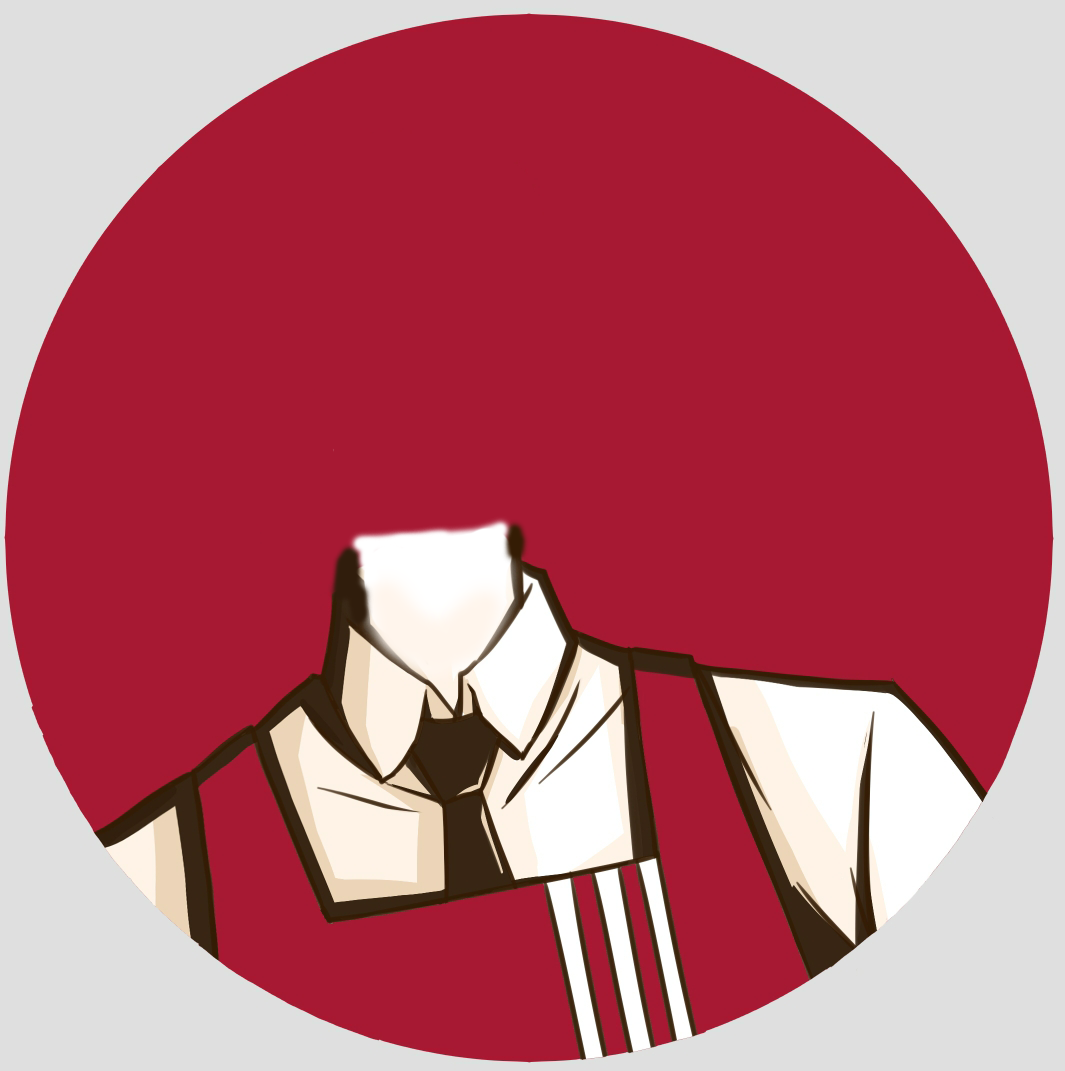
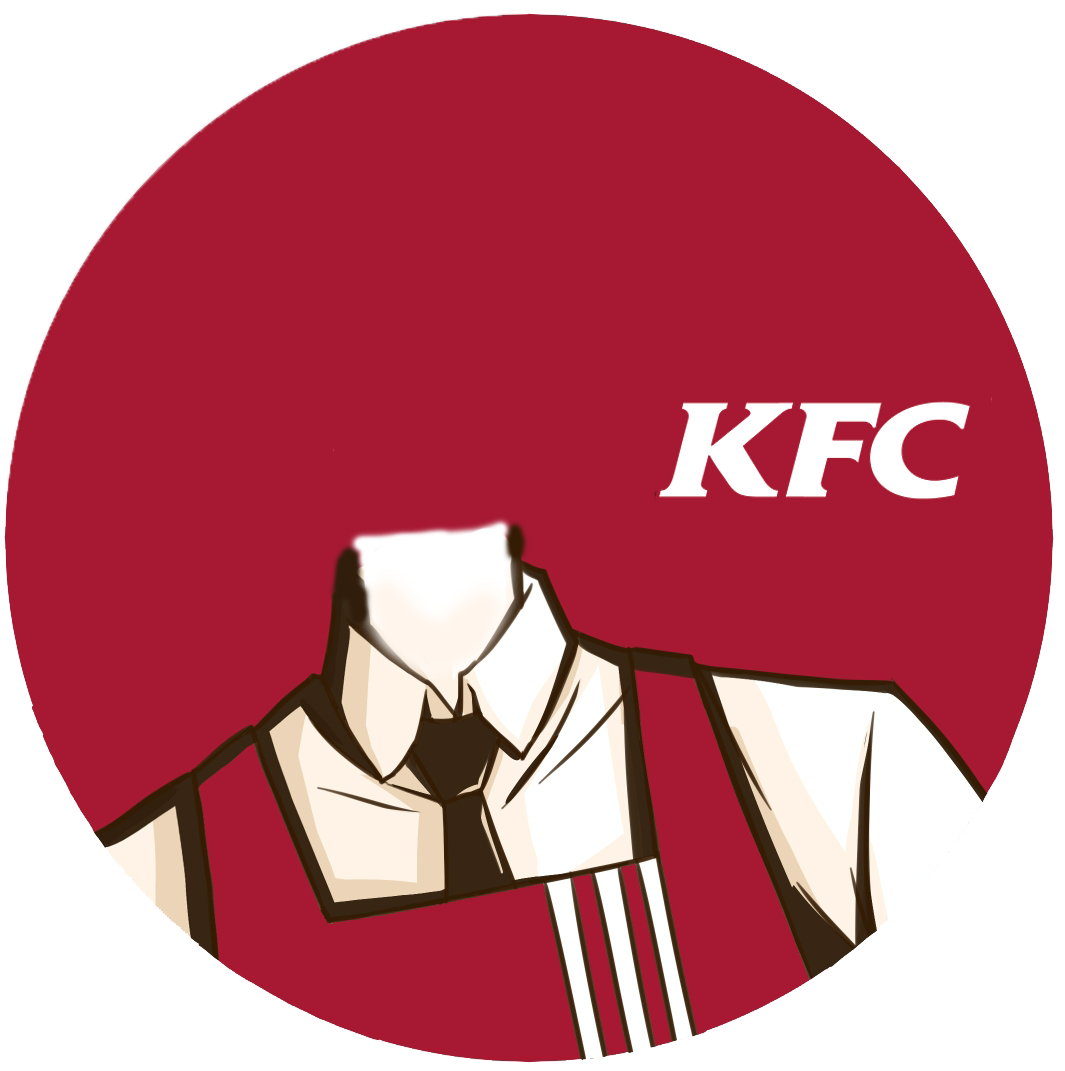
新增表情挣扎 优化KFC头像

Changed region(s): [[0.0, 0.0, 1.0, 1.0], [0.6197, 0.3697, 0.9296, 0.4622]]

diff --git a/emoji/anyliew_struggling/__init__.py b/emoji/anyliew_struggling/__init__.py
@@ -5,32 +5,32 @@ from pil_utils import BuildImage
 
 from meme_generator import MemeArgsModel, add_meme
 from meme_generator.exception import TextOverLength
-from meme_generator.utils import make_png_or_gif
+from meme_generator.utils import make_jpg_or_gif
 
 img_dir = Path(__file__).parent / "images"
 
 
-def kfc_head(images: list[BuildImage], texts: list[str], args: MemeArgsModel):
+def anyliew_struggling(images: list[BuildImage], texts: list[str], args: MemeArgsModel):
     frame = BuildImage.open(img_dir / "0.png")
 
     def make(imgs: list[BuildImage]) -> BuildImage:
         #头像尺寸
-        img = imgs[0].convert("RGBA").circle().resize((500, 500))
-        img = img.rotate(15, expand=True)
+        img = imgs[0].convert("RGBA").circle().resize((300, 300))
+        img = img.rotate(25, expand=True)
         #头像坐标
-        return frame.copy().paste(img, (65, 65), alpha=True)
+        return frame.copy().paste(img, (275, 28), alpha=True,below=True)
 
-    return make_png_or_gif(images, make)
+    return make_jpg_or_gif(images, make)
 
 
 add_meme(
-    "kfc_head",
-    kfc_head,
+    "anyliew_struggling",
+    anyliew_struggling,
     min_images=1,
     max_images=1,
     min_texts=0,
     max_texts=1,
-    keywords=["kfc头像","KFC头像","肯德基头像"],
-    date_created=datetime(2024, 7, 26),
+    keywords=["挣扎"],
+    date_created=datetime(2025, 5, 26),
     date_modified=datetime(2025, 5, 26),
 )
